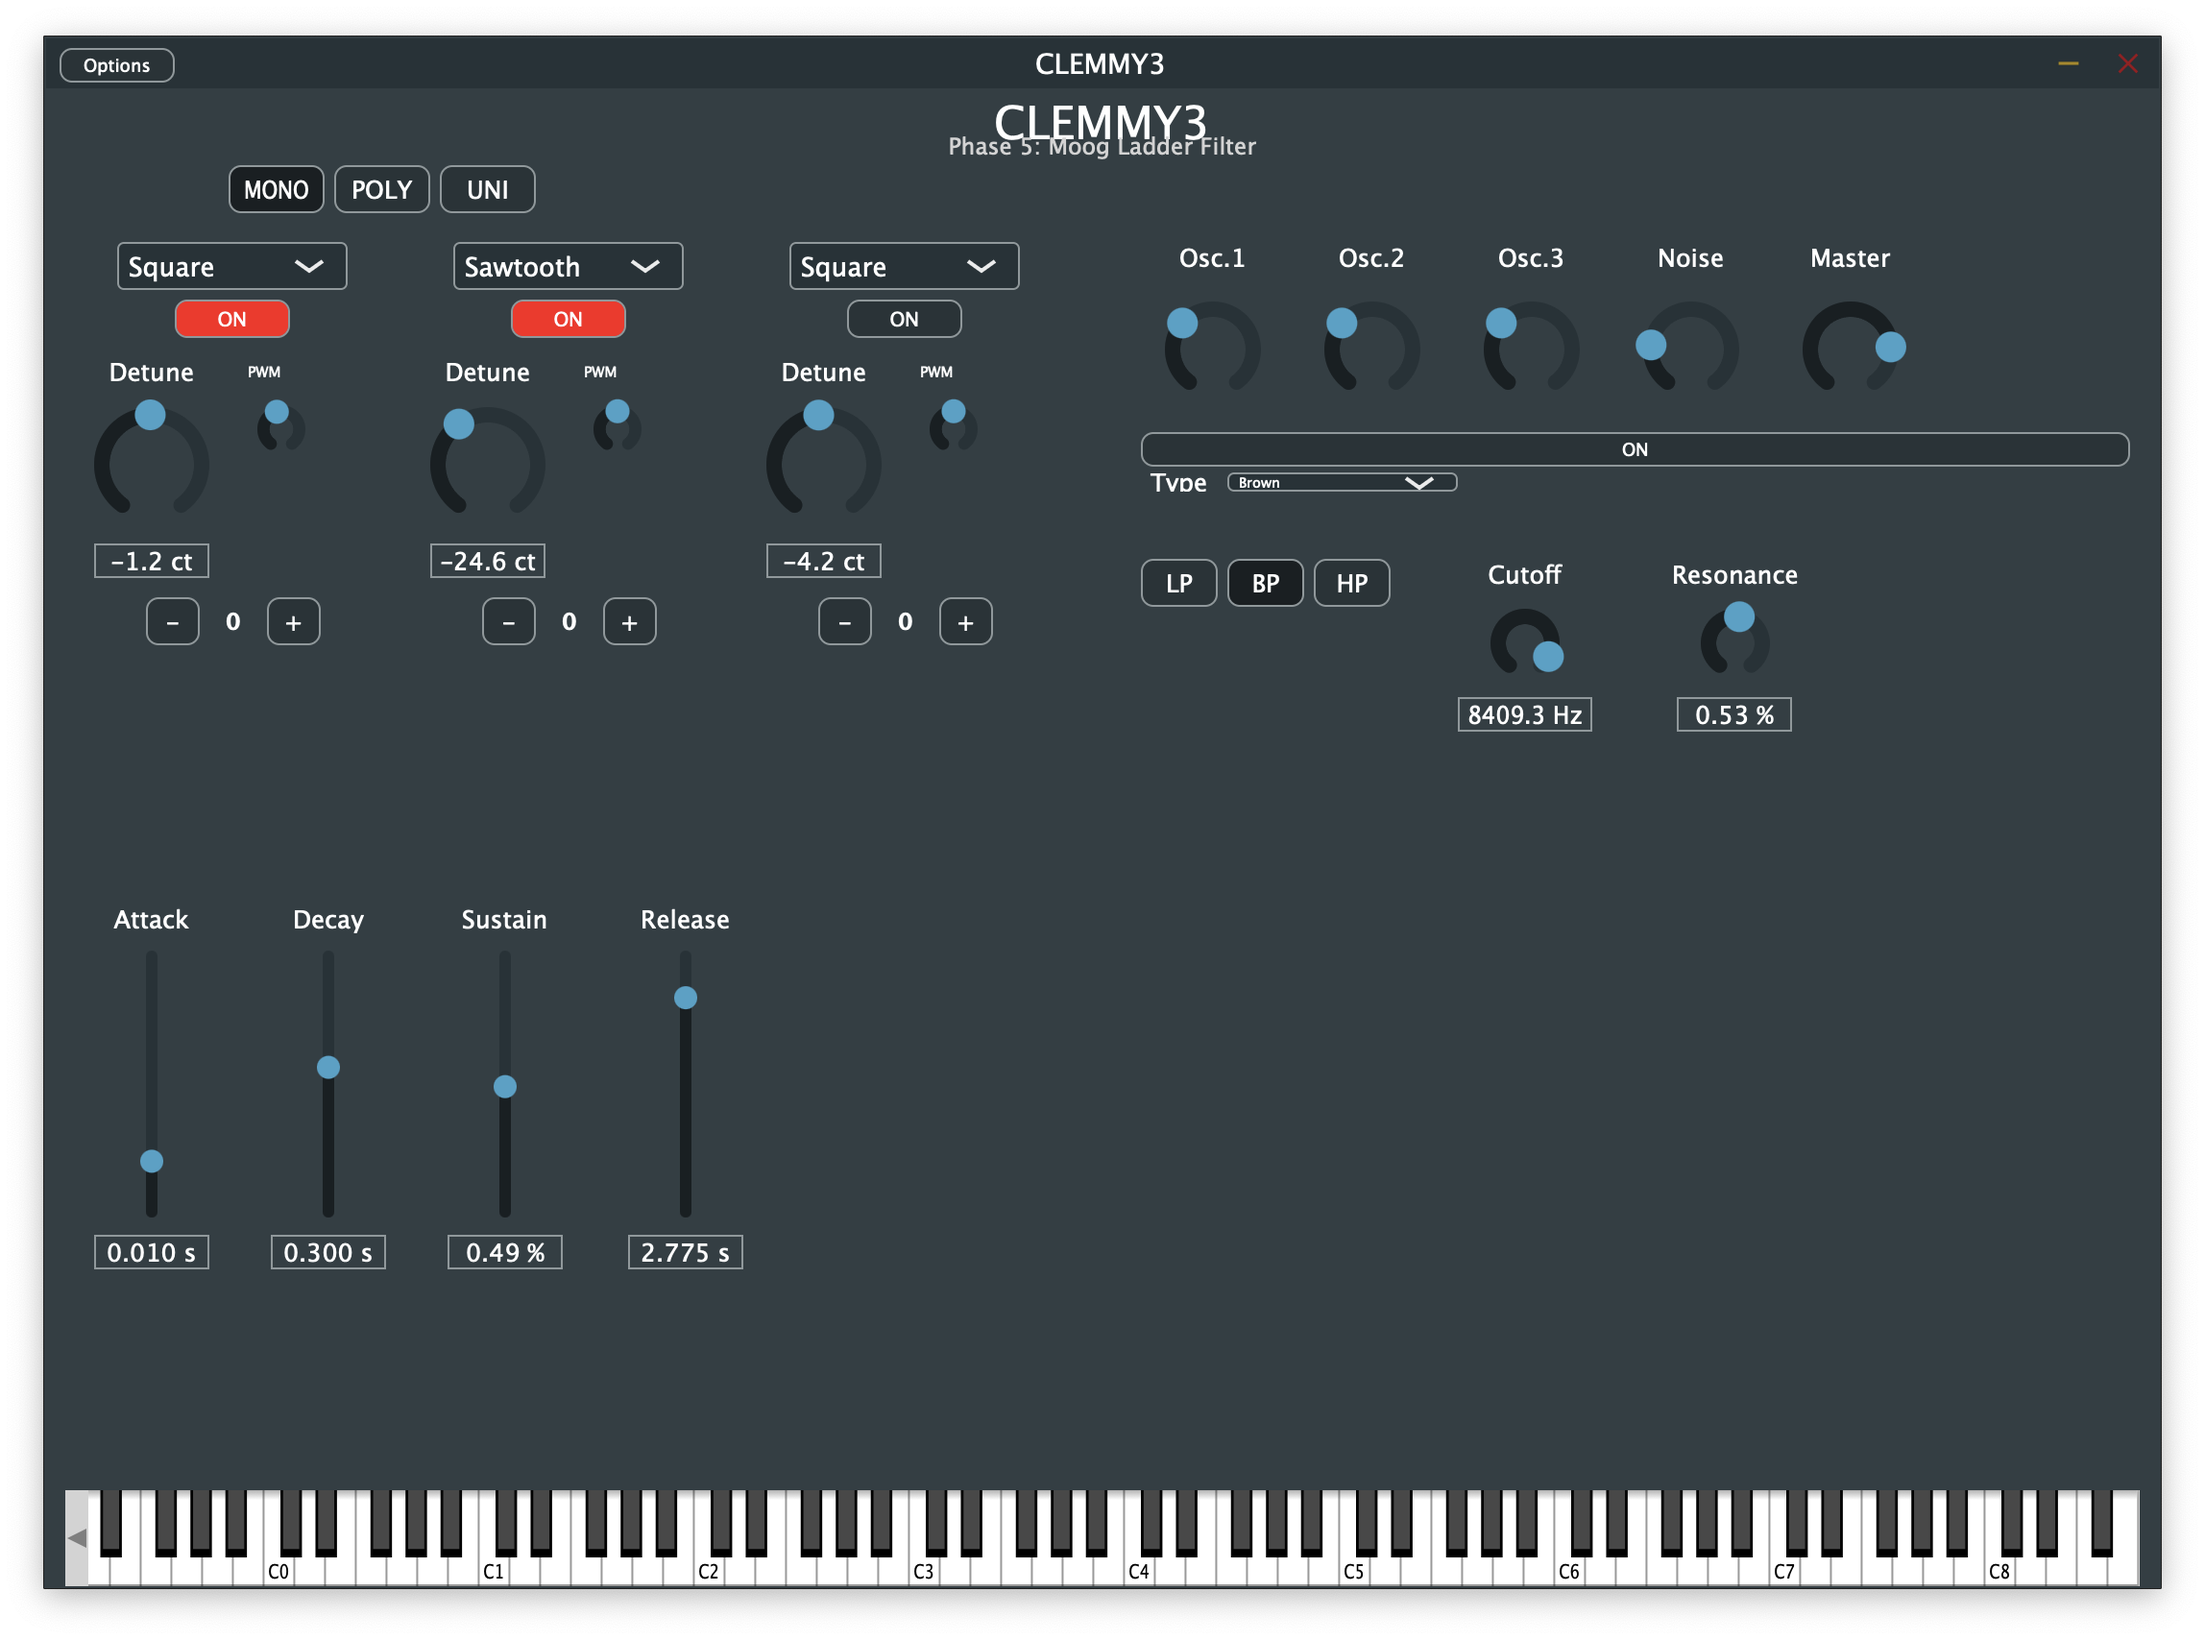
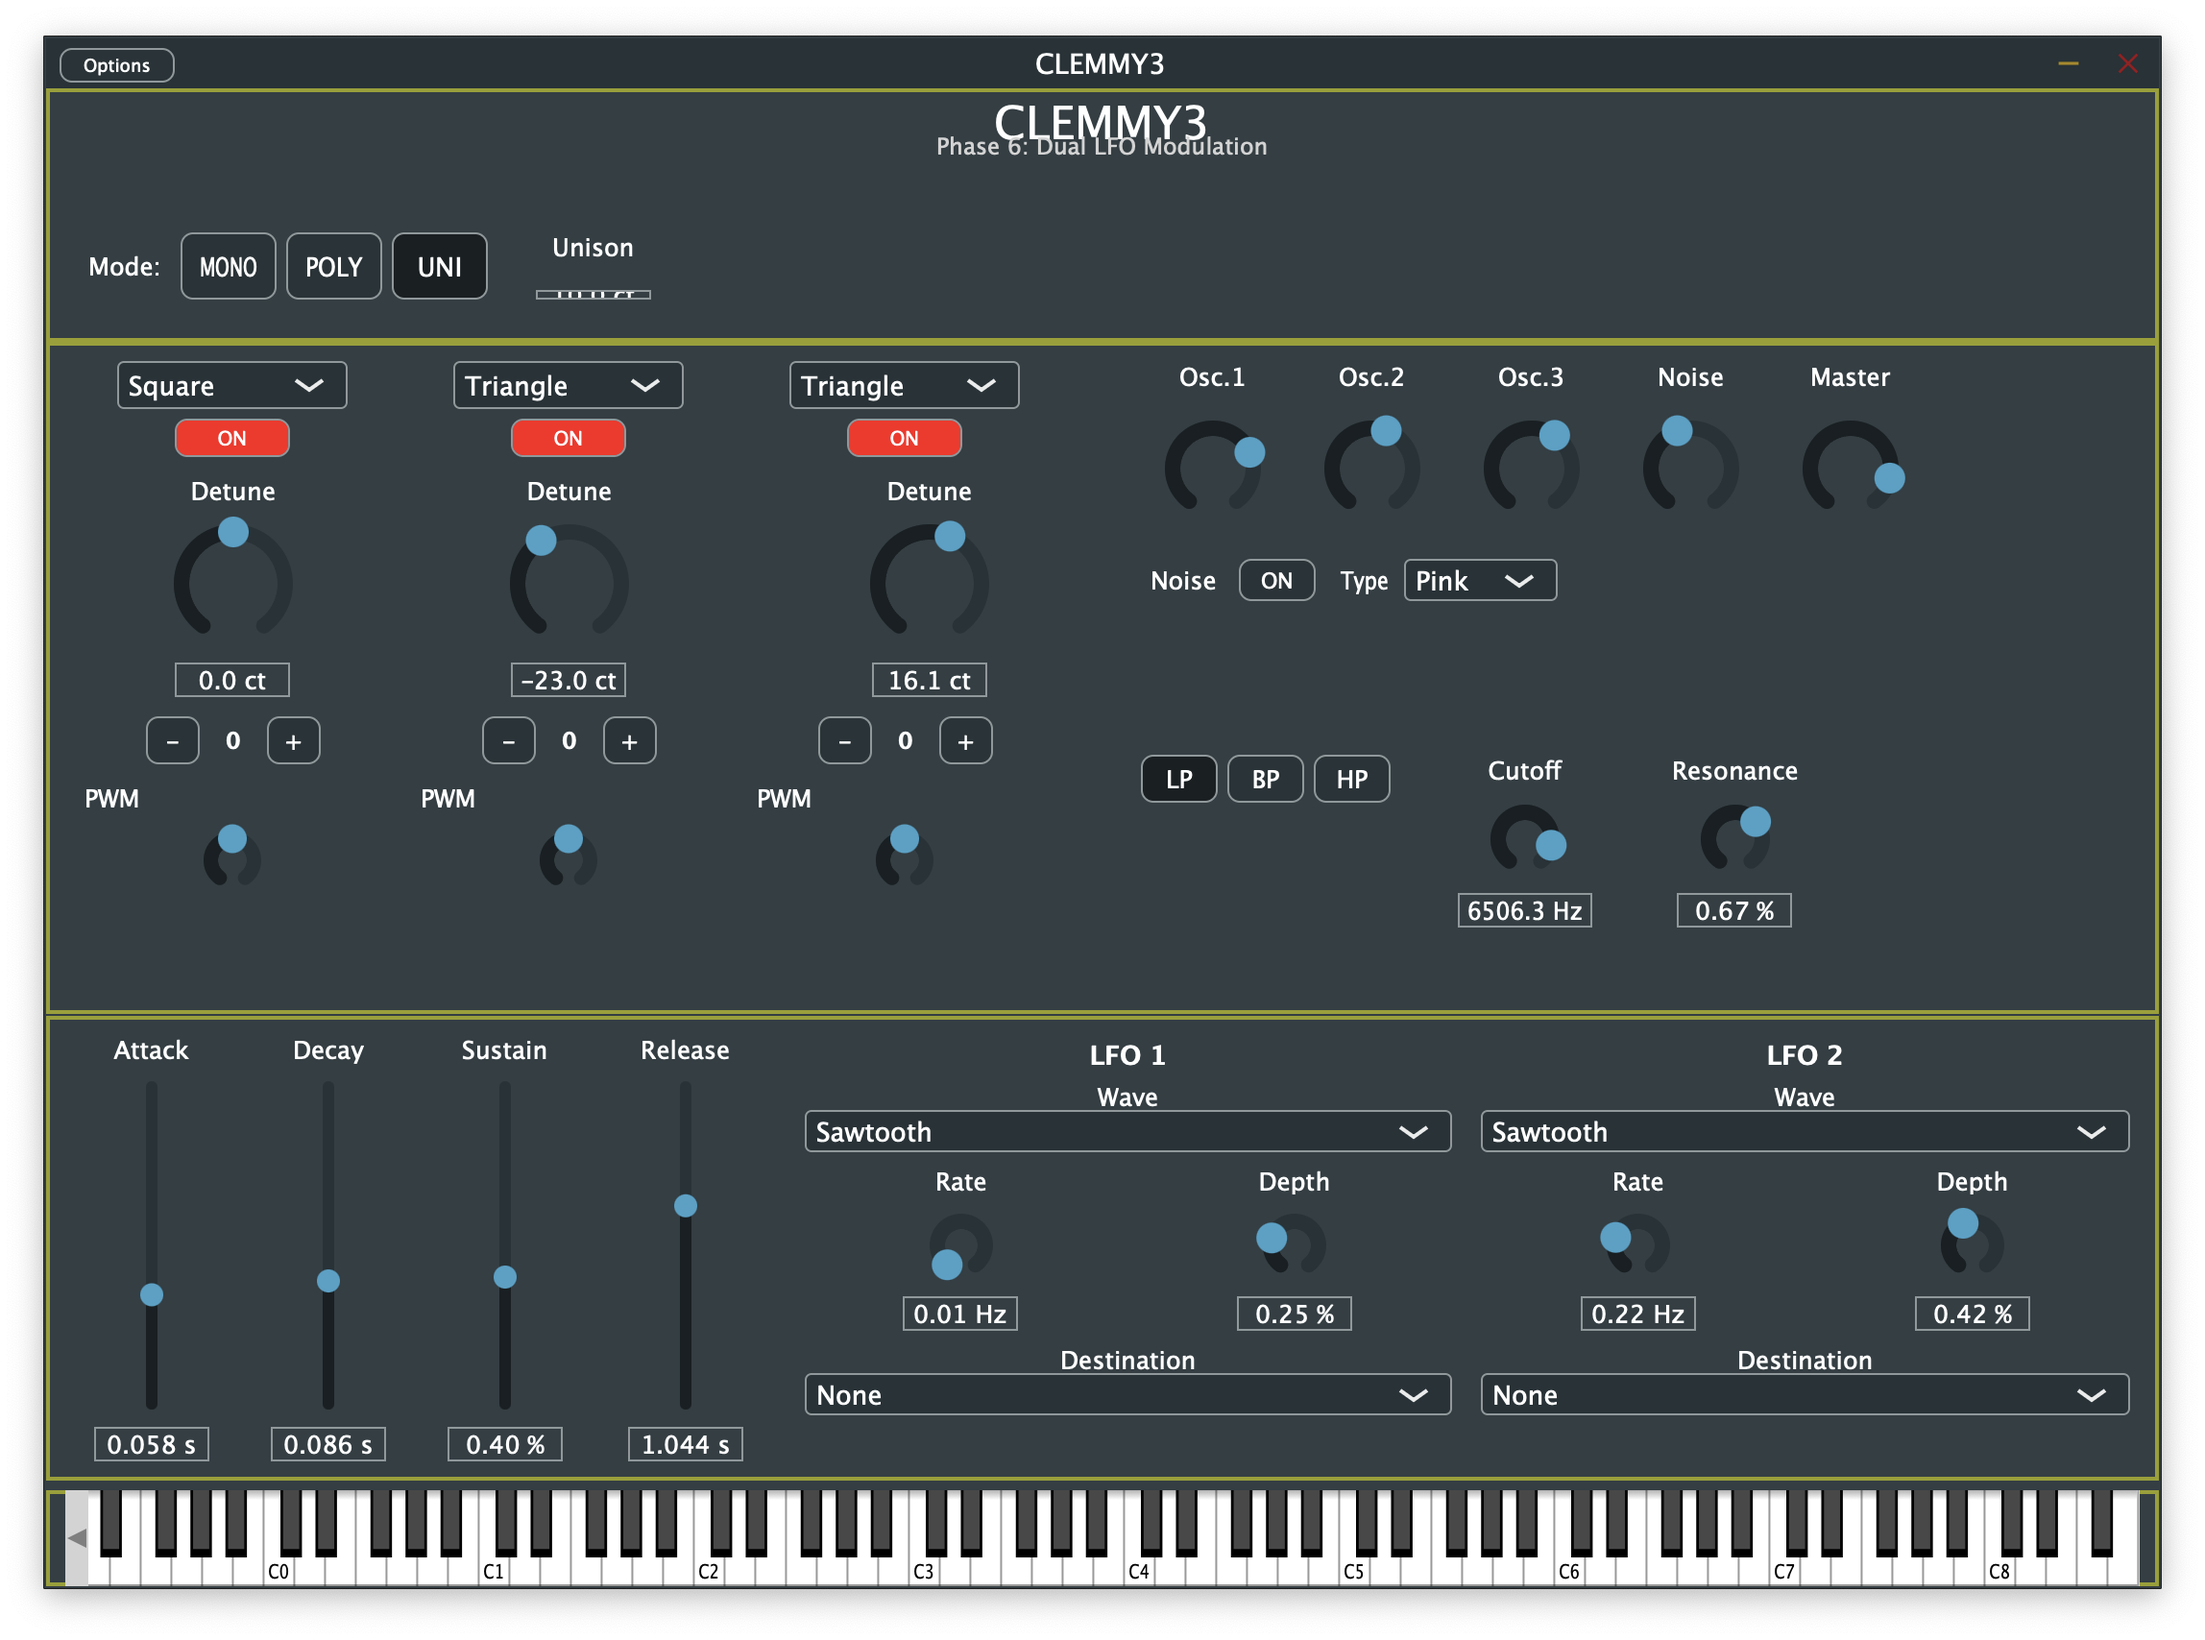
Add adjustable unison detune with ComboBox selector
Implemented user-adjustable unison detune (5-25 cents) with dropdown menu
and fixed phaser artifacts through random phase initialization.

Unison Detune Parameter:
- Changed from continuous slider to discrete ComboBox dropdown
- 7 preset values: 5, 7, 10, 12, 15, 20, 25 cents
- Default: 10 cents (was fixed at 25 cents)
- Parameter type: AudioParameterChoice (was AudioParameterFloat)
- Value mapping in processBlock to convert index to cent values

Phaser Artifact Fix:
- Added setRandomPhase() method to Oscillator class
- Modified Voice::noteOn() to accept randomizePhase parameter
- Unison mode uses random phase initialization (prevents phase-locked sweep)
- Mono/Poly modes use synchronized phase reset (clean waveform starts)
- Eliminates characteristic phaser sweep at all detune values

VoiceManager Changes:
- Added unisonDetuneAmount member variable (default 10.0f)
- Added setUnisonDetune() method for runtime adjustment
- Modified calculateUnisonDetune() to use adjustable value
- Updated allocateUnisonVoices() to pass randomizePhase = true

UI Updates:
- Replaced Slider with ComboBox in PluginEditor.h
- Updated PluginEditor.cpp constructor with 7 preset items
- Changed attachment from SliderAttachment to ComboBoxAttachment
- Adjusted layout sizing: 80px width × 25px height for dropdown
- Label remains "Unison detune:" positioned to left of dropdown

README Updates:
- Added unison detune feature to polyphony section
[…]

diff --git a/Source/PluginProcessor.cpp b/Source/PluginProcessor.cpp
@@ -35,6 +35,12 @@ juce::AudioProcessorValueTreeState::ParameterLayout CLEMMY3AudioProcessor::creat
         juce::StringArray{"Mono", "Poly", "Unison"},
         1));  // Default: Poly
 
+    // Unison Detune parameter - preset values
+    params.push_back(std::make_unique<juce::AudioParameterChoice>(
+        "unisonDetune", "Unison Detune",
+        juce::StringArray{"5 ct", "7 ct", "10 ct", "12 ct", "15 ct", "20 ct", "25 ct"},
+        2));  // Default: "10 ct" (index 2)
+
     // ==================== OSCILLATOR 1 PARAMETERS ====================
     params.push_back(std::make_unique<juce::AudioParameterBool>(
         "osc1Enabled", "Osc 1 Enabled", true));
@@ -339,6 +345,11 @@ void CLEMMY3AudioProcessor::processBlock(juce::AudioBuffer<float>& buffer, juce:
     // Get current parameter values
     int voiceModeIndex = parameters.getRawParameterValue("voiceMode")->load();
 
+    // Map unison detune choice index to actual cent values
+    int unisonDetuneIndex = parameters.getRawParameterValue("unisonDetune")->load();
+    const float unisonDetuneValues[] = {5.0f, 7.0f, 10.0f, 12.0f, 15.0f, 20.0f, 25.0f};
+    float unisonDetune = unisonDetuneValues[unisonDetuneIndex];
+
     // Oscillator 1 parameters
     bool osc1Enabled = parameters.getRawParameterValue("osc1Enabled")->load() > 0.5f;
     int osc1Waveform = parameters.getRawParameterValue("osc1Waveform")->load();
@@ -379,8 +390,9 @@ void CLEMMY3AudioProcessor::processBlock(juce::AudioBuffer<float>& buffer, juce:
     float filterCutoff = parameters.getRawParameterValue("filterCutoff")->load();
     float filterResonance = parameters.getRawParameterValue("filterResonance")->load();
 
-    // Update voice manager mode
+    // Update voice manager mode and unison detune
     voiceManager.setVoiceMode(static_cast<VoiceManager::VoiceMode>(voiceModeIndex));
+    voiceManager.setUnisonDetune(unisonDetune);
 
     // Broadcast oscillator 1 parameters to all voices
     voiceManager.setOscillatorEnabled(0, osc1Enabled);

diff --git a/Source/PluginEditor.cpp b/Source/PluginEditor.cpp
@@ -49,6 +49,24 @@ CLEMMY3AudioProcessorEditor::CLEMMY3AudioProcessorEditor(CLEMMY3AudioProcessor& 
             audioProcessor.parameters.getParameter("voiceMode")->setValueNotifyingHost(1.0f);
     };
 
+    // Unison Detune selector
+    addAndMakeVisible(unisonDetuneSelector);
+    unisonDetuneSelector.addItem("5 ct", 1);
+    unisonDetuneSelector.addItem("7 ct", 2);
+    unisonDetuneSelector.addItem("10 ct", 3);
+    unisonDetuneSelector.addItem("12 ct", 4);
+    unisonDetuneSelector.addItem("15 ct", 5);
+    unisonDetuneSelector.addItem("20 ct", 6);
+    unisonDetuneSelector.addItem("25 ct", 7);
+    unisonDetuneSelector.setSelectedId(3);  // Default: "10 ct"
+
+    addAndMakeVisible(unisonDetuneLabel);
+    unisonDetuneLabel.setText("Unison detune:", juce::dontSendNotification);
+    unisonDetuneLabel.setJustificationType(juce::Justification::centredRight);
+
+    unisonDetuneAttachment = std::make_unique<juce::AudioProcessorValueTreeState::ComboBoxAttachment>(
+        audioProcessor.parameters, "unisonDetune", unisonDetuneSelector);
+
     // ========== OSCILLATOR 1 CONTROLS ==========
     // Enable button
     addAndMakeVisible(osc1EnableButton);
@@ -750,6 +768,11 @@ void CLEMMY3AudioProcessorEditor::resized()
     voiceModePolyButton.setBounds(voiceModeArea.removeFromLeft(modeBtnWidth));
     voiceModeArea.removeFromLeft(modeBtnSpacing);
     voiceModeUnisonButton.setBounds(voiceModeArea.removeFromLeft(modeBtnWidth));
+
+    // Unison Detune selector (after buttons) - label and dropdown on same line
+    voiceModeArea.removeFromLeft(20);  // Spacing
+    unisonDetuneLabel.setBounds(voiceModeArea.removeFromLeft(95));  // "Unison detune:" label
+    unisonDetuneSelector.setBounds(voiceModeArea.removeFromLeft(80).removeFromTop(25));
 
     area.removeFromTop(22);  // More spacing (was 5, now 22 to use extra header space)
 

diff --git a/Source/DSP/VoiceManager.cpp b/Source/DSP/VoiceManager.cpp
@@ -25,6 +25,11 @@ void VoiceManager::setVoiceMode(VoiceMode mode)
     voiceMode = mode;
 }
 
+void VoiceManager::setUnisonDetune(float detuneCents)
+{
+    unisonDetuneAmount = detuneCents;
+}
+
 void VoiceManager::noteOn(int midiNote, float velocity)
 {
     // Dispatch to appropriate allocation strategy based on mode
@@ -430,24 +435,24 @@ void VoiceManager::allocateUnisonVoices(int midiNote, float velocity)
     // Silence any voices that might be ringing
     allSoundOff();
 
-    // Trigger all voices with calculated detune amounts
+    // Trigger all voices with calculated detune amounts and random phases
+    // Random phases prevent phaser effect from phase synchronization
     for (int i = 0; i < MAX_VOICES; ++i)
     {
         float detune = calculateUnisonDetune(i);
-        voices[i].noteOn(midiNote, velocity, detune);
+        voices[i].noteOn(midiNote, velocity, detune, true);  // true = randomize phase
     }
 }
 
 float VoiceManager::calculateUnisonDetune(int voiceIndex) const
 {
-    // Spread voices across +/- 25 cents
-    // Creates thick, chorused sound
-    const float MAX_DETUNE_CENTS = 25.0f;
+    // Spread voices across adjustable detune range (5-25 cents)
+    // Creates thick, chorused sound with variable intensity
 
     // Center voice has no detune, others spread symmetrically
-    // Example for 8 voices: -25, -17.86, -10.71, -3.57, +3.57, +10.71, +17.86, +25
-    float step = (MAX_DETUNE_CENTS * 2.0f) / (MAX_VOICES - 1);
-    return -MAX_DETUNE_CENTS + (voiceIndex * step);
+    // Example for 8 voices at ±10 cents: -10, -7.14, -4.29, -1.43, +1.43, +4.29, +7.14, +10
+    float step = (unisonDetuneAmount * 2.0f) / (MAX_VOICES - 1);
+    return -unisonDetuneAmount + (voiceIndex * step);
 }
 
 void VoiceManager::incrementAllAges()

diff --git a/Source/DSP/Voice.cpp b/Source/DSP/Voice.cpp
@@ -21,15 +21,24 @@ void Voice::setSampleRate(double newSampleRate)
     lfo2.setSampleRate(newSampleRate);
 }
 
-void Voice::noteOn(int midiNote, float velocity, float detune)
+void Voice::noteOn(int midiNote, float velocity, float detune, bool randomizePhase)
 {
     currentMidiNote = midiNote;
     unisonDetune = detune;
 
-    // Reset oscillator phases for clean waveform start
+    // Reset or randomize oscillator phases
     for (auto& osc : oscillators)
     {
-        osc.reset();
+        if (randomizePhase)
+        {
+            // Random phase for unison mode - prevents phaser effect
+            osc.setRandomPhase();
+        }
+        else
+        {
+            // Clean phase reset for mono/poly modes
+            osc.reset();
+        }
     }
 
     // Update all oscillator frequencies with new note

diff --git a/Source/PluginEditor.h b/Source/PluginEditor.h
@@ -27,6 +27,8 @@ private:
     juce::TextButton voiceModeMonoButton;
     juce::TextButton voiceModePolyButton;
     juce::TextButton voiceModeUnisonButton;
+    juce::ComboBox unisonDetuneSelector;
+    juce::Label unisonDetuneLabel;
 
     // ========== OSCILLATOR 1 CONTROLS ==========
     juce::TextButton osc1EnableButton;
@@ -131,6 +133,7 @@ private:
 
     // ========== PARAMETER ATTACHMENTS ==========
     // Voice mode - no attachment, uses onClick handlers
+    std::unique_ptr<juce::AudioProcessorValueTreeState::ComboBoxAttachment> unisonDetuneAttachment;
 
     // Oscillator 1 - osc1Enable uses onClick handler
     std::unique_ptr<juce::AudioProcessorValueTreeState::ComboBoxAttachment> osc1WaveformAttachment;

diff --git a/Source/DSP/Oscillator.cpp b/Source/DSP/Oscillator.cpp
@@ -77,6 +77,13 @@ void Oscillator::reset()
     phase = 0.0;
 }
 
+void Oscillator::setRandomPhase()
+{
+    // Set phase to random value between 0.0 and 1.0
+    // Breaks phase synchronization for more natural unison sound
+    phase = static_cast<double>(rand()) / static_cast<double>(RAND_MAX);
+}
+
 // ============================================================================
 // Waveform Generators
 // ============================================================================

diff --git a/Source/DSP/VoiceManager.h b/Source/DSP/VoiceManager.h
@@ -32,6 +32,7 @@ public:
      */
     void setSampleRate(double sampleRate);
     void setVoiceMode(VoiceMode mode);
+    void setUnisonDetune(float detuneCents);  // 5-25 cents
 
     /**
      * MIDI note handling
@@ -98,6 +99,7 @@ private:
     // Voice pool
     std::array<Voice, MAX_VOICES> voices;
     VoiceMode voiceMode = VoiceMode::Poly;
+    float unisonDetuneAmount = 10.0f;  // Default: ±10 cents
 
     /**
      * Voice allocation helpers

diff --git a/Source/DSP/Voice.h b/Source/DSP/Voice.h
@@ -39,7 +39,7 @@ public:
     /**
      * Voice lifecycle
      */
-    void noteOn(int midiNote, float velocity, float unisonDetune = 0.0f);
+    void noteOn(int midiNote, float velocity, float unisonDetune = 0.0f, bool randomizePhase = false);
     void noteOff();
     void reset();
 

diff --git a/Source/DSP/Oscillator.h b/Source/DSP/Oscillator.h
@@ -63,6 +63,11 @@ public:
      */
     void reset();
 
+    /**
+     * Set random phase offset (0.0 - 1.0) to break phase synchronization
+     */
+    void setRandomPhase();
+
 private:
     // Oscillator state
     double phase = 0.0;              // Current phase (0.0 to 1.0)

diff --git a/README.md b/README.md
@@ -23,6 +23,8 @@ C++/JUCE port of the [Python Triple Oscillator](https://github.com/clemgoub/Trip
 
 - **🎚 8-Voice Polyphony**
   - Three voice modes: Mono (last note priority), Poly (up to 8 voices), Unison (detuned chorus)
+  - Adjustable unison detune (5-25 cents) for variable chorus intensity
+  - Random phase initialization eliminates phaser artifacts in unison mode
   - LRU (Least Recently Used) voice stealing algorithm
   - Smooth envelope retriggering for glitch-free voice transitions
   - Per-voice independent modulation
@@ -105,8 +107,8 @@ C++/JUCE port of the [Python Triple Oscillator](https://github.com/clemgoub/Trip
   - Thread-safe parameter updates via AudioProcessorValueTreeState
 
 - **Parameters:**
-  - 44 total parameters (fully automatable in DAW)
-  - Voice mode, 18 oscillator params, 4 ADSR, 3 noise, 3 filter, 16 LFO
+  - 45 total parameters (fully automatable in DAW)
+  - 2 voice mode (mode + unison detune), 18 oscillator params, 4 ADSR, 3 noise, 1 master volume, 3 filter, 8 LFO1, 8 LFO2
 
 ## Building
 
@@ -161,7 +163,7 @@ For detailed build instructions, see [BUILD_GUIDE.md](Docs/BUILD_GUIDE.md)
 - **Tremolo**: Set LFO1 to Volume destination, depth ~100%, rate ~4Hz
 - **PWM Sweep**: Enable square wave, set LFO to PWM destination, depth ~100%
 - **Filter Sweep**: Set LFO to Filter Cutoff, adjust resonance for character
-- **Unison Mode**: Creates thick, chorused sound with 8 detuned voices
+- **Unison Mode**: Switch to UNI mode and adjust detune (5-25 cents) for thick, chorused sound without phaser artifacts
 
 ## Development
 
